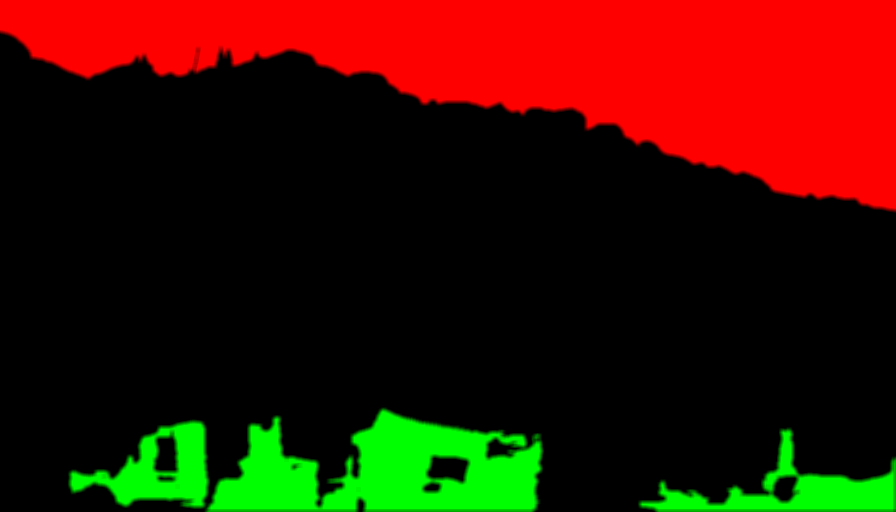
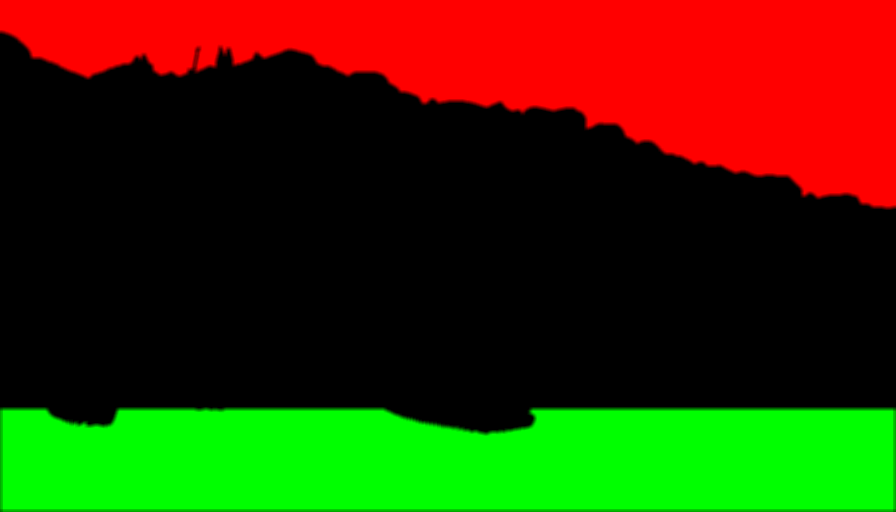
v3.0 45 B: sky stops at the ridge (far plateau only), water grows across reflections on the seed's ground plane; showcase masks regenerated

diff --git a/src/backdrop/depth/mask.ts b/src/backdrop/depth/mask.ts
@@ -1,6 +1,6 @@
 export interface MaskOptions { far: number; feather: number; minShare: number }
 
-export const SKY_MASK: MaskOptions = Object.freeze({ far: 0.04, feather: 2, minShare: 0.02 });
+export const SKY_MASK: MaskOptions = Object.freeze({ far: 0.01, feather: 2, minShare: 0.02 });
 
 const luminance = (rgba: ArrayLike<number>, index: number): number => rgba[index * 4];
 
@@ -41,9 +41,9 @@ export function skyMask(depth: ArrayLike<number>, width: number, height: number,
   return sky ? packMask(width, height, feather(sky, width, height, options.feather)) : null;
 }
 
-export interface WaterOptions { colorDistance: number; flat: number; minShare: number; feather: number }
+export interface WaterOptions { colorDistance: number; flat: number; minShare: number; feather: number; farBand: number; bandGap: number }
 
-export const WATER_MASK: WaterOptions = Object.freeze({ colorDistance: 60, flat: 3, minShare: 0.01, feather: 2 });
+export const WATER_MASK: WaterOptions = Object.freeze({ colorDistance: 60, flat: 3, minShare: 0.01, feather: 2, farBand: 0, bandGap: 8 });
 
 export function waterRegion(depth: ArrayLike<number>, color: ArrayLike<number>, sky: Uint8Array, width: number, height: number, options: WaterOptions = WATER_MASK): Uint8Array | null {
   const count = width * height;
@@ -60,24 +60,27 @@ export function waterRegion(depth: ArrayLike<number>, color: ArrayLike<number>, 
   }
   if (!skyN) return null;
   skyR /= skyN; skyG /= skyN; skyB /= skyN;
+  const nearEnough = farThreshold(depth, count, options.farBand);
   const candidate = new Uint8Array(count);
+  const plane = new Uint8Array(count);
   for (let y = Math.max(1, horizon); y < height - 1; y += 1) {
     for (let x = 1; x < width - 1; x += 1) {
       const index = y * width + x;
       if (sky[index]) continue;
-      const r = color[index * 4], g = color[index * 4 + 1], b = color[index * 4 + 2];
-      const blue = b >= r + 8 && b >= g - 5;
-      if (!blue || Math.hypot(r - skyR, g - skyG, b - skyB) > options.colorDistance && b < r + 25) continue;
       const here = luminance(depth, index);
       const step = Math.max(...[index + 1, index - 1, index + width, index - width].map((next) => Math.abs(luminance(depth, next) - here)));
       const below = y + 3 < height ? luminance(depth, index + 3 * width) : here, above = y >= 3 ? luminance(depth, index - 3 * width) : here;
-      if (step <= options.flat && below - above >= 1) candidate[index] = 1;
+      if (step > options.flat || below - above < 1 || here < nearEnough) continue;
+      plane[index] = 1;
+      const r = color[index * 4], g = color[index * 4 + 1], b = color[index * 4 + 2];
+      const blue = b >= r + 8 && b >= g - 5;
+      if (blue && (Math.hypot(r - skyR, g - skyG, b - skyB) <= options.colorDistance || b >= r + 25)) candidate[index] = 1;
     }
   }
   const water = new Uint8Array(count);
   const seen = new Uint8Array(count);
   const minimum = Math.max(1, Math.round(count * options.minShare));
-  let share = 0;
+  const components: number[][] = [];
   for (let start = 0; start < count; start += 1) {
     if (!candidate[start] || seen[start]) continue;
     const component: number[] = [];
@@ -93,11 +96,35 @@ export function waterRegion(depth: ArrayLike<number>, color: ArrayLike<number>, 
         stack.push(next);
       }
     }
-    if (component.length < minimum) continue;
-    for (const index of component) water[index] = 1;
-    share += component.length;
+    if (component.length >= minimum) components.push(component);
   }
-  return share ? water : null;
+  if (!components.length) return null;
+  const rows = components.map((component) => ({ component, top: Math.min(...component.map((index) => Math.floor(index / width))), bottom: Math.max(...component.map((index) => Math.floor(index / width))) }));
+  const largest = rows.reduce((best, next) => (next.component.length > best.component.length ? next : best));
+  let top = largest.top, bottom = largest.bottom, grew = true;
+  const kept = new Set([largest]);
+  while (grew) {
+    grew = false;
+    for (const row of rows) {
+      if (kept.has(row) || row.bottom < top - options.bandGap || row.top > bottom + options.bandGap) continue;
+      kept.add(row); top = Math.min(top, row.top); bottom = Math.max(bottom, row.bottom); grew = true;
+    }
+  }
+  for (const row of kept) for (const index of row.component) water[index] = 1;
+  const grow: number[] = [];
+  for (let index = 0; index < count; index += 1) if (water[index]) grow.push(index);
+  while (grow.length) {
+    const index = grow.pop() as number;
+    const x = index % width;
+    for (const next of [x > 0 ? index - 1 : -1, x < width - 1 ? index + 1 : -1, index - width, index + width]) {
+      if (next < 0 || next >= count || water[next] || sky[next] || !plane[next]) continue;
+      const y = Math.floor(next / width);
+      if (y < top || y > bottom) continue;
+      water[next] = 1;
+      grow.push(next);
+    }
+  }
+  return water;
 }
 
 export function sceneMask(depth: ArrayLike<number>, color: ArrayLike<number> | null, width: number, height: number): Uint8ClampedArray | null {

diff --git a/src/backdrop/depth/depth.test.ts b/src/backdrop/depth/depth.test.ts
@@ -185,6 +185,24 @@ describe("scene mask channels", () => {
     expect(share(scene([60, 110, 190], (x, y) => ((x + y) % 2 ? 90 : 200)), 1)).toBe(0);
   });
 
+  test("mountains a little nearer than the sky plateau are not sky", () => {
+    const width = 10, height = 10, depth = new Uint8ClampedArray(400);
+    for (let y = 0; y < height; y += 1) for (let x = 0; x < width; x += 1) {
+      const d = y < 3 ? 0 : y < 6 ? 8 : 60 + y * 15;
+      depth.set([d, d, d, 255], (y * width + x) * 4);
+    }
+    const mask = sceneMask(depth, null, width, height) as Uint8ClampedArray;
+    expect(mask[(1 * width + 5) * 4]).toBeGreaterThan(127);
+    expect(mask[(5 * width + 5) * 4]).toBeLessThan(40);
+  });
+
+  test("water grows from blue seeds across reflections on the same ground plane, not up a far slope", () => {
+    const mask = scene([60, 110, 190], (_x, y) => 100 + y);
+    const reflected = scene([200, 90, 60], (_x, y) => 100 + y);
+    expect(share(reflected, 1)).toBe(0);
+    expect(share(mask, 1)).toBeGreaterThan(0.5);
+  });
+
   test("no colour means sky only", () => {
     const width = 4, height = 4, depth = new Uint8ClampedArray(64);
     for (let i = 0; i < 16; i += 1) depth.set(i < 8 ? [0, 0, 0, 255] : [200, 200, 200, 255], i * 4);
